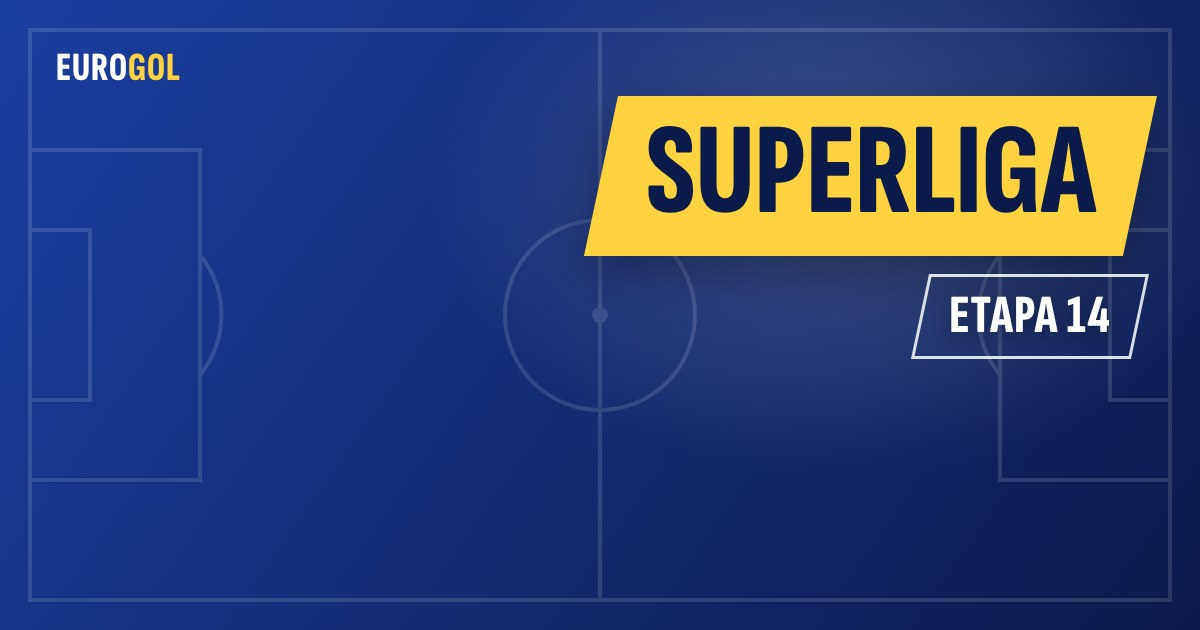
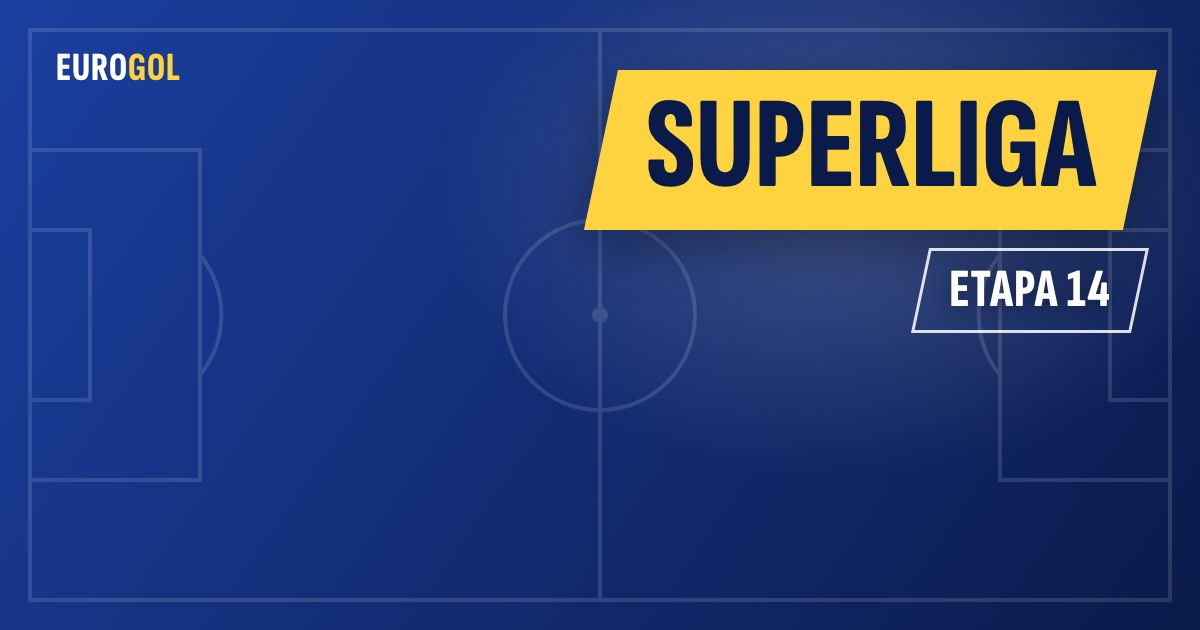
Tema 1.1.0: sectiunile nu mai raman goale, titluri pe 2 randuri pe cardurile mici, actualizare automata din GitHub; coperti cu banda mai sus

Changed region(s): [[0.4625, 0.0905, 0.9867, 0.573]]

diff --git a/tema/eurogol/style.css b/tema/eurogol/style.css
@@ -3,7 +3,7 @@ Theme Name: Eurogol
 Theme URI: https://eurogol.ro
 Author: Eurogol
 Description: Tema site-ului eurogol.ro – fotbal românesc, european și sud-american. Prima pagină cu un articol mare și patru mai mici, secțiuni pe competiții, coloana „Pe scurt” și importul automat al articolelor din GitHub.
-Version: 1.0.0
+Version: 1.1.0
 Requires at least: 6.4
 Requires PHP: 7.4
 License: GNU General Public License v2 or later
@@ -113,7 +113,8 @@ button { font: inherit; cursor: pointer; }
 .eg-coperta:hover .eg-img { transform: scale(1.04); }
 .eg-coperta > a::after { content: ""; position: absolute; inset: 0; background: linear-gradient(to top, rgba(0,0,0,.88) 0%, rgba(0,0,0,.45) 42%, rgba(0,0,0,0) 70%); }
 .eg-coperta-text { position: absolute; left: 0; right: 0; bottom: 0; z-index: 1; padding: 10px 12px 12px; display: flex; flex-direction: column; align-items: flex-start; gap: 4px; }
-.eg-coperta-titlu { font-weight: 600; font-size: 15px; line-height: 1.25; text-shadow: 0 1px 3px rgba(0,0,0,.6); }
+.eg-coperta-titlu { font-weight: 600; font-size: 15px; line-height: 1.25; text-shadow: 0 1px 3px rgba(0,0,0,.6); display: -webkit-box; -webkit-box-orient: vertical; -webkit-line-clamp: 2; line-clamp: 2; overflow: hidden; }
+.eg-coperta-mare .eg-coperta-titlu { -webkit-line-clamp: 4; line-clamp: 4; }
 .eg-coperta-mare .eg-coperta-text { padding: 16px 18px 20px; gap: 8px; }
 .eg-coperta-mare .eg-coperta-titlu { font-size: 26px; }
 .eg-coperta .eg-meta, .eg-coperta .eg-meta .eg-autor { color: #fff; }

diff --git a/unelte/coperta-stire.js b/unelte/coperta-stire.js
@@ -56,7 +56,7 @@ body { width: 1200px; height: 630px; overflow: hidden; color: #fff; font-family:
 .teren { position: absolute; inset: 0; width: 1200px; height: 630px; opacity: .13; }
 .marca { position: absolute; left: 56px; top: 44px; font-weight: 800; font-size: 40px; letter-spacing: 1px; text-transform: uppercase; }
 .marca span { color: ${accent}; }
-.bloc { position: absolute; right: 60px; top: 96px; display: flex; flex-direction: column; align-items: flex-end; gap: 18px; max-width: 900px; }
+.bloc { position: absolute; right: 60px; top: 70px; display: flex; flex-direction: column; align-items: flex-end; gap: 18px; max-width: 900px; }
 .banda { font-weight: 800; font-size: 130px; line-height: .95; text-transform: uppercase; text-align: right;
 	padding: 16px 44px 20px; background: ${accent}; color: ${c2}; transform: skewX(-12deg); box-shadow: 0 18px 50px rgba(0,0,0,.35); }
 .banda > span { display: inline-block; transform: skewX(12deg); }

diff --git a/tema/eurogol/inc/actualizare.php b/tema/eurogol/inc/actualizare.php
@@ -1,0 +1,35 @@
+<?php
+/**
+ * Actualizarea temei din GitHub: când tema/versiune.txt din depozit are o versiune mai nouă,
+ * WordPress arată actualizarea în Panou → Actualizări (și în Aspect → Teme), ca la orice temă.
+ * Pachetul: tema/eurogol.zip din același depozit.
+ */
+
+defined( 'ABSPATH' ) || exit;
+
+add_filter( 'pre_set_site_transient_update_themes', 'eg_verifica_actualizare' );
+function eg_verifica_actualizare( $transient ) {
+	if ( ! is_object( $transient ) ) {
+		return $transient;
+	}
+	$depozit = function_exists( 'eg_import_depozit' ) ? eg_import_depozit() : '';
+	if ( ! $depozit ) {
+		return $transient;
+	}
+	$baza = 'https://raw.githubusercontent.com/' . $depozit . '/main/tema/';
+	$r    = wp_remote_get( $baza . 'versiune.txt?t=' . time(), array( 'timeout' => 10 ) );
+	if ( is_wp_error( $r ) || 200 !== wp_remote_retrieve_response_code( $r ) ) {
+		return $transient;
+	}
+	$noua = trim( wp_remote_retrieve_body( $r ) );
+	$tema = wp_get_theme( 'eurogol' );
+	if ( preg_match( '/^\d+\.\d+\.\d+$/', $noua ) && version_compare( $noua, $tema->get( 'Version' ), '>' ) ) {
+		$transient->response['eurogol'] = array(
+			'theme'       => 'eurogol',
+			'new_version' => $noua,
+			'url'         => 'https://github.com/' . $depozit . '/tree/main/tema',
+			'package'     => $baza . 'eurogol.zip',
+		);
+	}
+	return $transient;
+}

diff --git a/tema/eurogol/inc/carduri.php b/tema/eurogol/inc/carduri.php
@@ -119,6 +119,17 @@ function eg_sectiune( $slugs, $titlu, $exclude = array() ) {
 			'no_found_rows'       => true,
 		)
 	);
+	if ( ! $q->have_posts() && $exclude ) {
+		// Cât timp site-ul are puține articole, secțiunea le arată și pe cele din blocul de sus, ca să nu rămână goală.
+		$q = new WP_Query(
+			array(
+				'cat'                 => implode( ',', wp_list_pluck( $cats, 'term_id' ) ),
+				'posts_per_page'      => 6,
+				'ignore_sticky_posts' => true,
+				'no_found_rows'       => true,
+			)
+		);
+	}
 	if ( ! $q->have_posts() ) {
 		return array();
 	}

diff --git a/tema/eurogol/functions.php b/tema/eurogol/functions.php
@@ -6,13 +6,14 @@
 
 defined( 'ABSPATH' ) || exit;
 
-define( 'EG_VERSIUNE', '1.0.0' );
+define( 'EG_VERSIUNE', '1.1.0' );
 define( 'EG_DIR', get_template_directory() );
 define( 'EG_URI', get_template_directory_uri() );
 
 require EG_DIR . '/inc/setari.php';
 require EG_DIR . '/inc/carduri.php';
 require EG_DIR . '/inc/import.php';
+require EG_DIR . '/inc/actualizare.php';
 
 add_action( 'after_setup_theme', 'eg_setup' );
 function eg_setup() {
